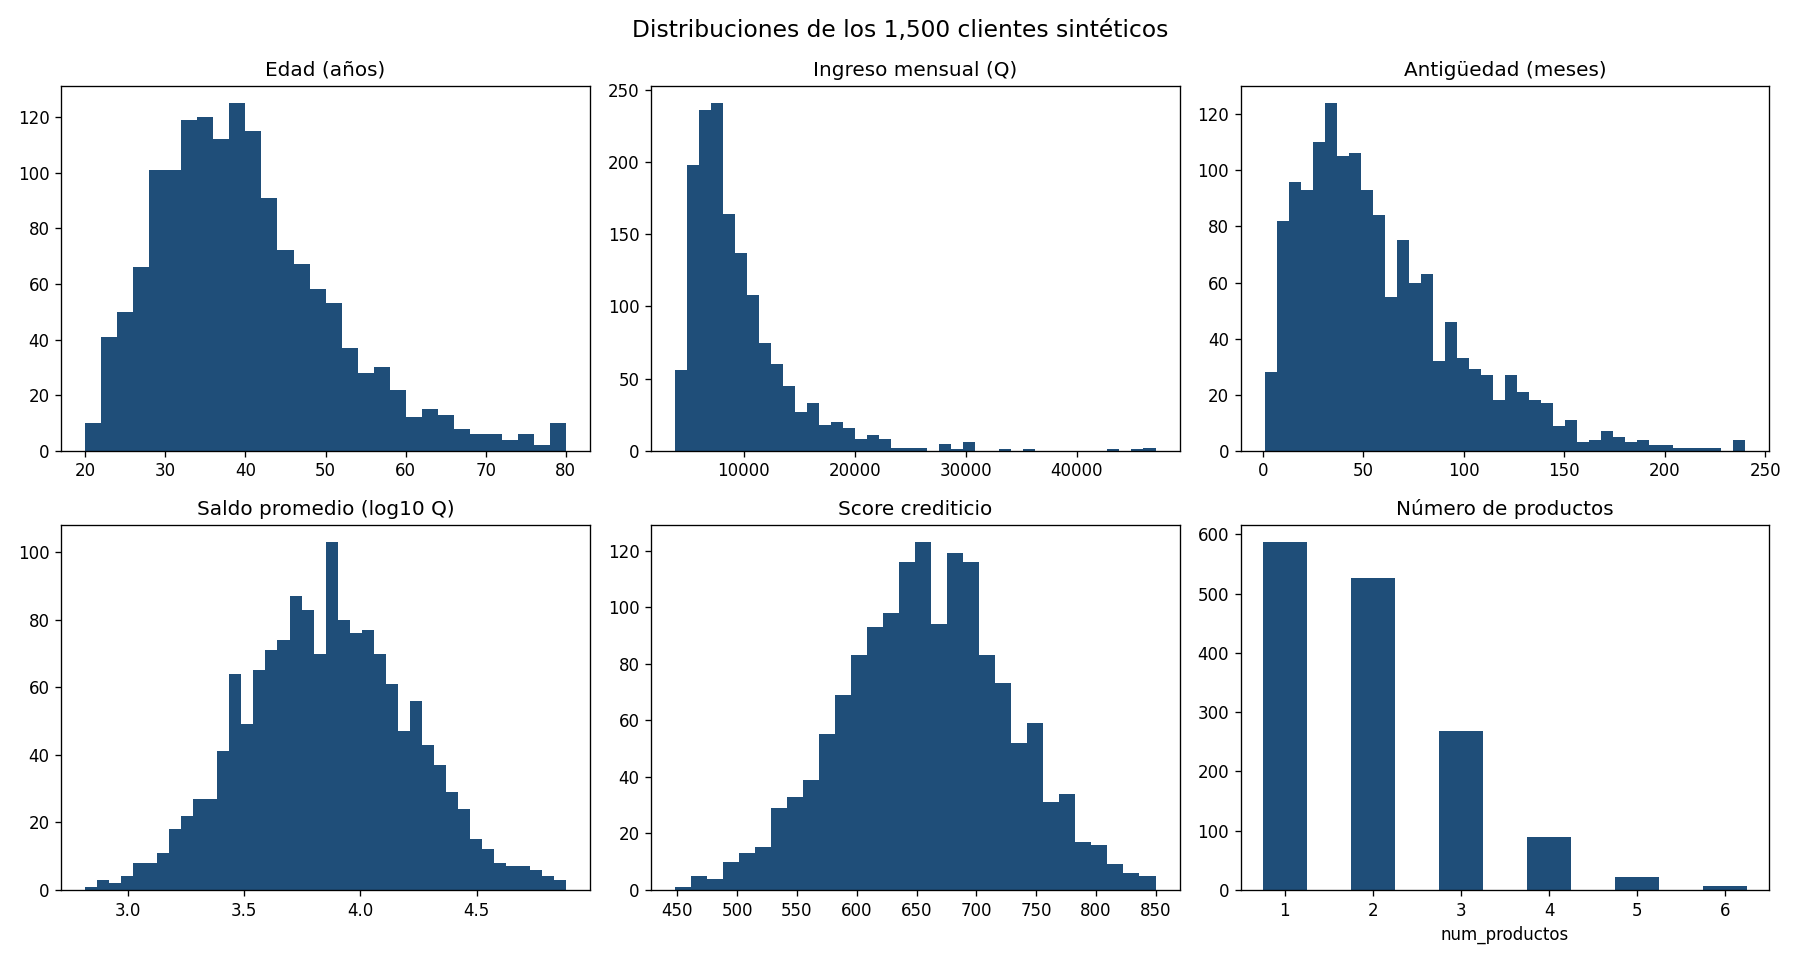
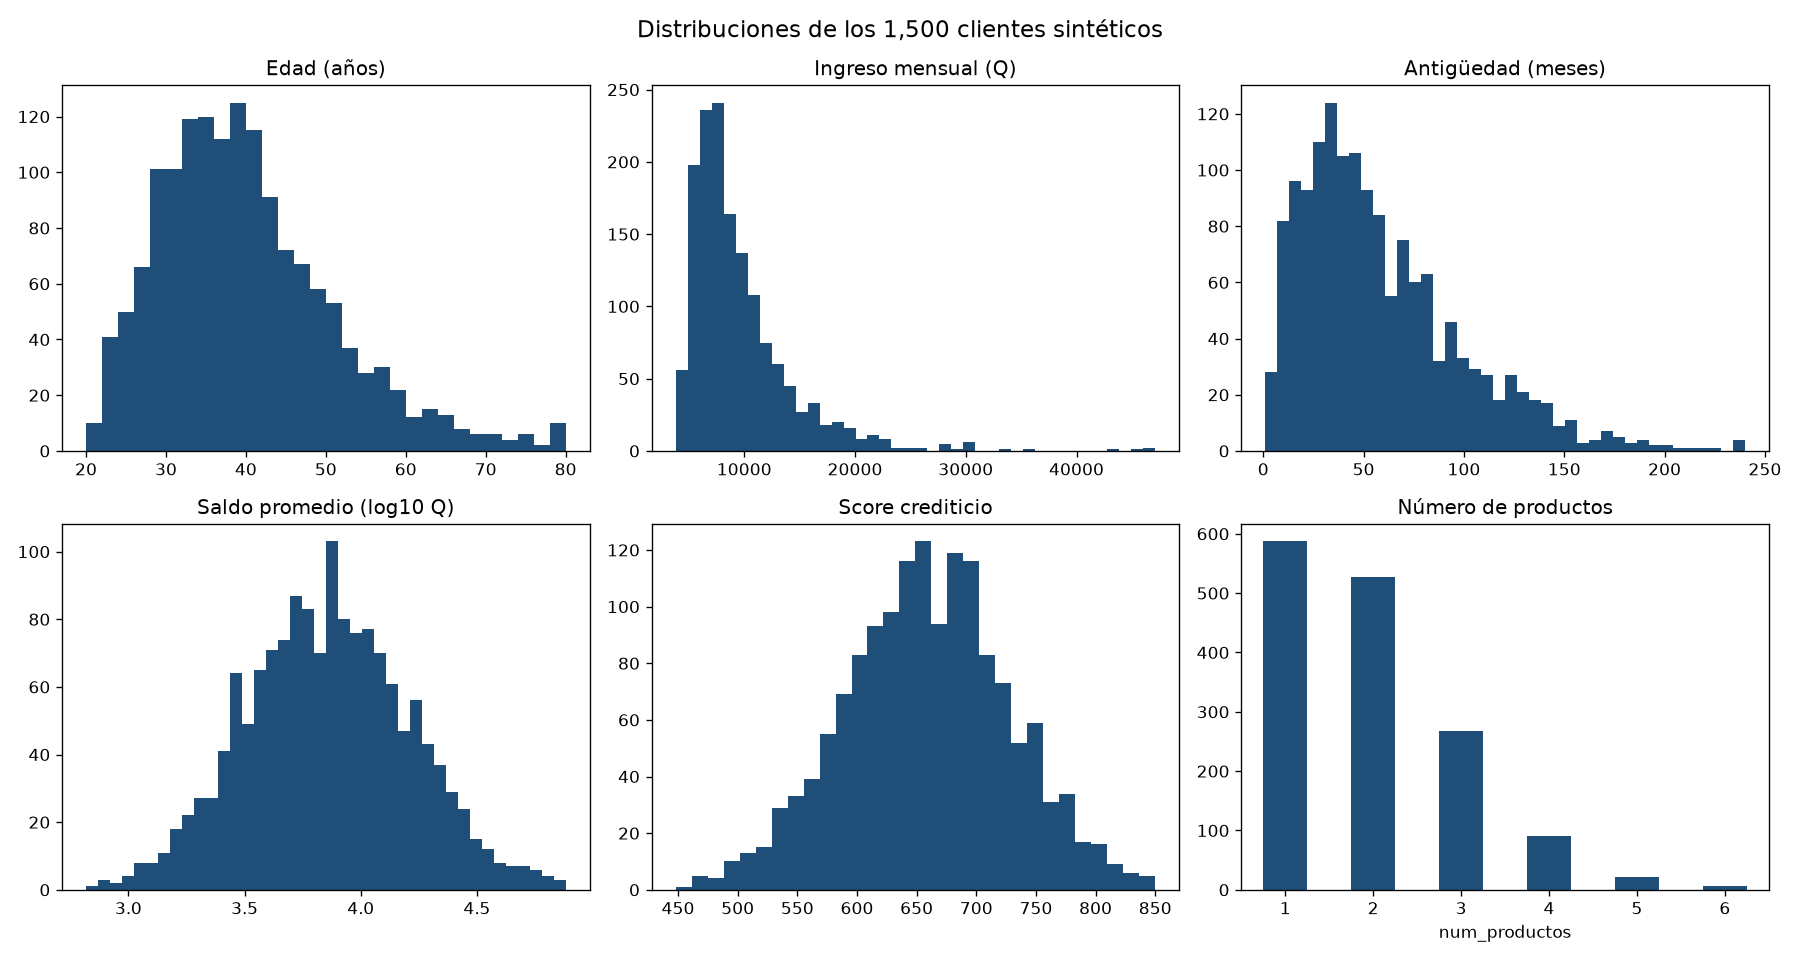
Compatibilidad con Python 3.9 a 3.14: requirements flexibles y fechas con datetime.timedelta

diff --git a/src/generar_datos.py b/src/generar_datos.py
@@ -14,6 +14,8 @@ actividad durante los últimos meses, como pasa en la vida real.
 
 Uso:  python -m src.generar_datos
 """
+from datetime import timedelta
+
 import numpy as np
 import pandas as pd
 
@@ -202,7 +204,7 @@ def generar_transacciones(rng, clientes):
             dias_mes = mes.days_in_month
             for _ in range(n_mes):
                 tipo = rng.choice(TIPOS_TRANSACCION, p=p_tipos)
-                fecha = mes + pd.Timedelta(days=int(rng.integers(0, dias_mes)),
+                fecha = mes + timedelta(days=int(rng.integers(0, dias_mes)),
                                            minutes=int(rng.integers(6 * 60, 22 * 60)))
                 monto = max(10.0, montos_por_tipo(rng, tipo, c.ingreso_mensual))
                 filas.append((c.cliente_id, fecha, tipo,
@@ -226,7 +228,7 @@ def generar_interacciones(rng, clientes, quejas):
         n_consultas = rng.poisson(1.5)
         tipos = ["Consulta"] * n_consultas + list(rng.choice(["Queja", "Reclamo"], n_quejas, p=[0.7, 0.3]))
         for tipo in tipos:
-            fecha = inicio + pd.Timedelta(days=int(rng.integers(0, dias_ventana + 1)))
+            fecha = inicio + timedelta(days=int(rng.integers(0, dias_ventana + 1)))
             if tipo == "Consulta":
                 p_resuelta = 0.95
             else:

diff --git a/src/validar_datos.py b/src/validar_datos.py
@@ -12,6 +12,8 @@ y distribuciones.
 
 Uso:  python -m src.validar_datos
 """
+from datetime import timedelta
+
 import matplotlib
 matplotlib.use("Agg")  # genera las imágenes sin abrir ventanas
 import matplotlib.pyplot as plt
@@ -88,7 +90,7 @@ def validar(tablas):
             res.append(("Rango", t, f"{col} entre {mn:,} y {mx:,}: {fuera} fuera de rango", estado(fuera == 0)))
 
     # Fechas dentro de la ventana observada
-    ini, fin = pd.Timestamp(config.FECHA_INICIO), pd.Timestamp(config.FECHA_CORTE) + pd.Timedelta(days=1)
+    ini, fin = pd.Timestamp(config.FECHA_INICIO), pd.Timestamp(config.FECHA_CORTE) + timedelta(days=1)
     for t in ["transacciones", "interacciones"]:
         f = tablas[t]["fecha"]
         fuera = int(((f < ini) | (f >= fin)).sum())
